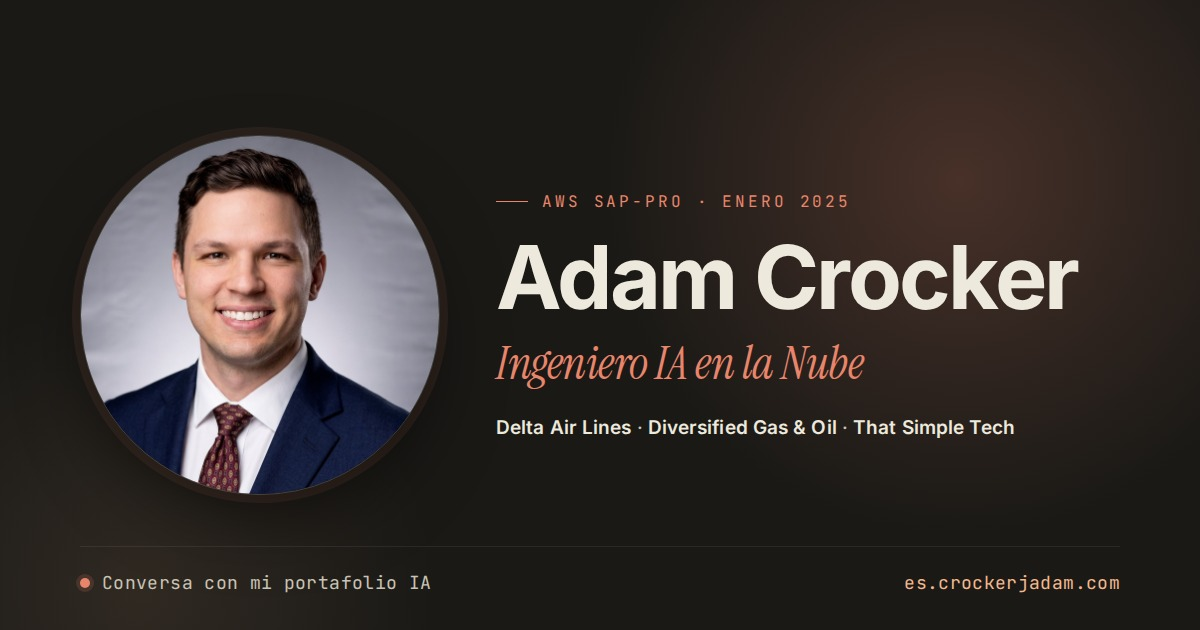
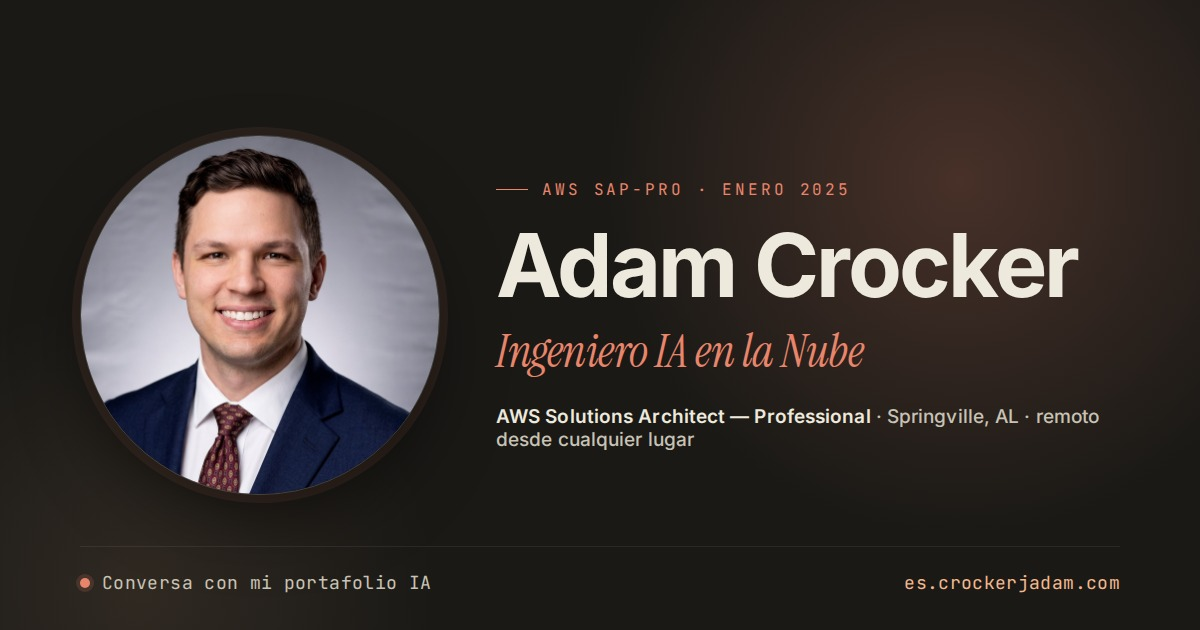
Stop enumerating multiple roles — full sweep (Spanish)
- Chat intro: lead with Delta only, remove DGO + TST mention
- Sidebar: remove DGO and TST threads (still reachable via keyword routing)
- classic hero-meta: drop org pills, keep credential + location only
- OG image: replace org-list line with AWS SAP · Springville · remote
- Meta/OG/Twitter descriptions cleaned on both index and classic

Changed region(s): [[0.4008, 0.3619, 0.925, 0.7238], [0.4317, 0.2714, 0.7092, 0.3317]]

diff --git a/index.html b/index.html
@@ -17,7 +17,7 @@
     <meta property="og:type" content="website" />
     <meta property="og:site_name" content="Adam Crocker" />
     <meta property="og:title" content="Adam Crocker — Ingeniero IA en la Nube" />
-    <meta property="og:description" content="Conversa con una versión IA de Adam Crocker — AWS Solutions Architect Professional. Delta Air Lines, Diversified Gas &amp; Oil, That Simple Tech." />
+    <meta property="og:description" content="Conversa con una versión IA de Adam Crocker — Ingeniero IA en la Nube y AWS Solutions Architect Professional. Springville, AL · remoto desde cualquier lugar." />
     <meta property="og:url" content="https://es.crockerjadam.com/" />
     <meta property="og:image" content="https://es.crockerjadam.com/assets/og-image.jpg" />
     <meta property="og:image:secure_url" content="https://es.crockerjadam.com/assets/og-image.jpg" />
@@ -30,7 +30,7 @@
     <!-- Twitter Card -->
     <meta name="twitter:card" content="summary_large_image" />
     <meta name="twitter:title" content="Adam Crocker — Ingeniero IA en la Nube" />
-    <meta name="twitter:description" content="Conversa con una versión IA de Adam Crocker. AWS SAP-Pro. Delta · Diversified Gas &amp; Oil · That Simple Tech." />
+    <meta name="twitter:description" content="Conversa con una versión IA de Adam Crocker. Ingeniero IA en la Nube · AWS SAP-Pro · Springville, AL." />
     <meta name="twitter:image" content="https://es.crockerjadam.com/assets/og-image.jpg" />
     <meta name="twitter:image:alt" content="Adam Crocker, Ingeniero IA en la Nube" />
 
@@ -69,14 +69,6 @@
             </button>
             <button class="sb-item" data-thread="delta">
               <span class="sb-item-title">Cuéntame sobre tu trabajo en Delta</span>
-              <span class="sb-item-time">Hoy</span>
-            </button>
-            <button class="sb-item" data-thread="dgo">
-              <span class="sb-item-title">Diversified Gas &amp; Oil a fondo</span>
-              <span class="sb-item-time">Hoy</span>
-            </button>
-            <button class="sb-item" data-thread="tst">
-              <span class="sb-item-title">That Simple Tech — la consultora</span>
               <span class="sb-item-time">Hoy</span>
             </button>
             <button class="sb-item" data-thread="stack">
@@ -157,7 +149,7 @@
 
     <template id="t-intro">
       <p>Hola — soy <strong>Adam Crocker</strong>. Ingeniero IA en la Nube, AWS Solutions Architect — Professional (enero 2025, válido hasta enero 2028). Basado en <strong>Springville, Alabama</strong>; trabajo remoto desde cualquier lugar.</p>
-      <p>Hoy ocupo dos puestos: <strong>Ingeniero de Datos en el equipo ODSR de Delta Air Lines</strong> (en junio de 2026 paso al <strong>equipo de Habilitación de IA</strong> de Delta) e <strong>Ingeniero de Sistemas en Diversified Gas &amp; Oil</strong> desde agosto de 2025. En paralelo dirijo <strong>That Simple Tech</strong> — mi consultora nativa de IA.</p>
+      <p>Soy <strong>Ingeniero de Datos en el equipo ODSR de Delta Air Lines</strong>, y en junio de 2026 paso al <strong>equipo de Habilitación de IA</strong> de Delta — ahí es donde vive la mayor parte de mi trabajo reciente.</p>
       <p>La versión corta de lo que hago: <em>construyo sistemas nativos de IA para empresas de todos los tamaños</em>. Desde Fortune 500 hasta el negocio de la esquina. La misma persona, el mismo cuidado.</p>
       <div class="msg-actions">
         <button class="chip" data-prompt="¿Qué has lanzado?">▸ ¿Qué has lanzado?</button>

diff --git a/classic.html b/classic.html
@@ -5,7 +5,7 @@
     <meta name="viewport" content="width=device-width, initial-scale=1, viewport-fit=cover" />
     <meta name="color-scheme" content="dark" />
     <title>Adam Crocker — Ingeniero IA en la Nube</title>
-    <meta name="description" content="Adam Crocker — Ingeniero IA en la Nube, AWS Solutions Architect Professional. Delta Air Lines · Diversified Gas & Oil · That Simple Tech." />
+    <meta name="description" content="Adam Crocker — Ingeniero IA en la Nube · AWS Solutions Architect Professional. Trabajo destacado, stack y contacto." />
     <meta name="theme-color" content="#1a1916" />
     <link rel="icon" href="/assets/favicon.svg" type="image/svg+xml" />
     <link rel="canonical" href="https://es.crockerjadam.com/classic.html" />
@@ -17,7 +17,7 @@
     <meta property="og:type" content="profile" />
     <meta property="og:site_name" content="Adam Crocker" />
     <meta property="og:title" content="Adam Crocker — Ingeniero IA en la Nube" />
-    <meta property="og:description" content="Ingeniero IA en la Nube · AWS Solutions Architect Professional. Trabajo destacado, stack y contacto — Delta Air Lines, Diversified Gas &amp; Oil, That Simple Tech." />
+    <meta property="og:description" content="Ingeniero IA en la Nube · AWS Solutions Architect Professional. Trabajo destacado, stack y contacto. Springville, AL — remoto desde cualquier lugar." />
     <meta property="og:url" content="https://es.crockerjadam.com/classic.html" />
     <meta property="og:image" content="https://es.crockerjadam.com/assets/og-image.jpg" />
     <meta property="og:image:secure_url" content="https://es.crockerjadam.com/assets/og-image.jpg" />
@@ -344,9 +344,8 @@
             <p class="hero-role">Desde Fortune 500 hasta el negocio de la esquina — la misma persona, el mismo cuidado. AWS Solutions Architect — Professional. Basado en Springville, Alabama; remoto desde cualquier lugar.</p>
             <div class="hero-meta">
               <span>SAP-Pro · enero 2025</span>
-              <span>Delta Air Lines</span>
-              <span>Diversified Gas &amp; Oil</span>
-              <span>That Simple Tech</span>
+              <span>Springville, AL</span>
+              <span>Remoto desde cualquier lugar</span>
             </div>
           </div>
           <div>
